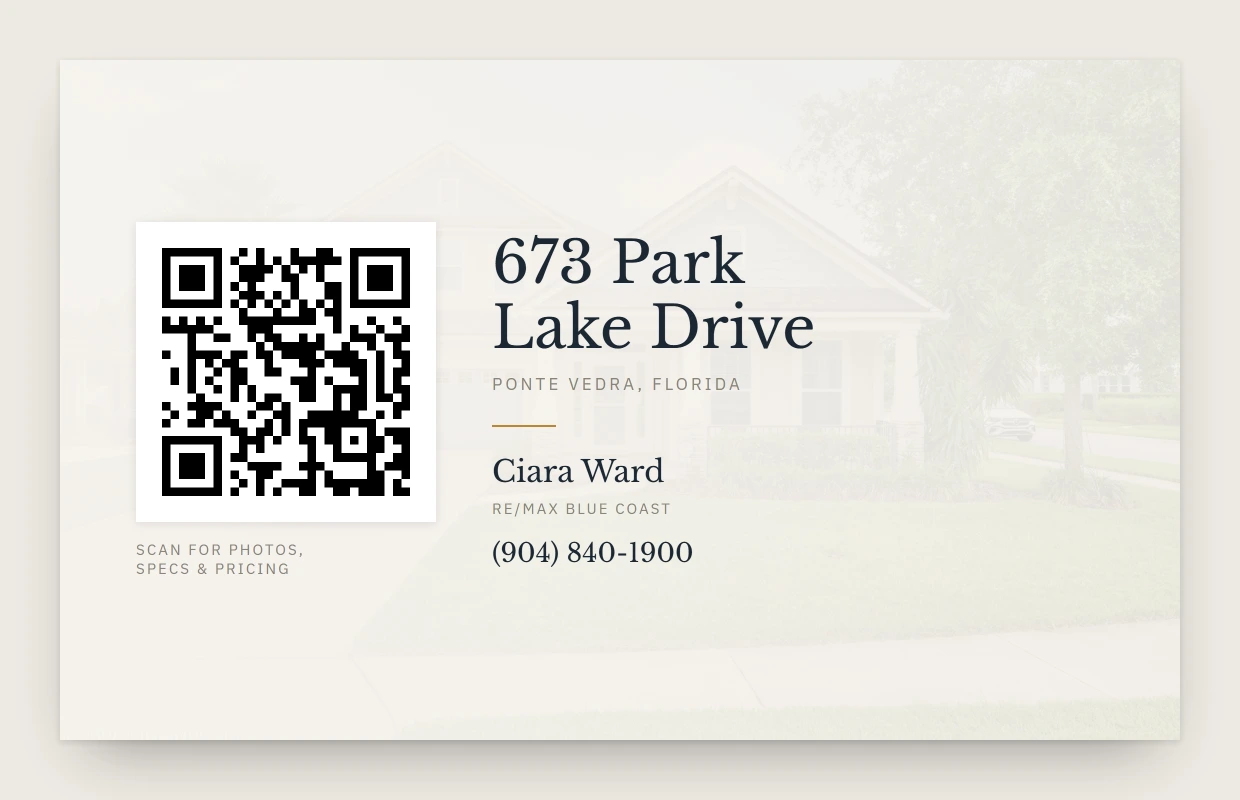
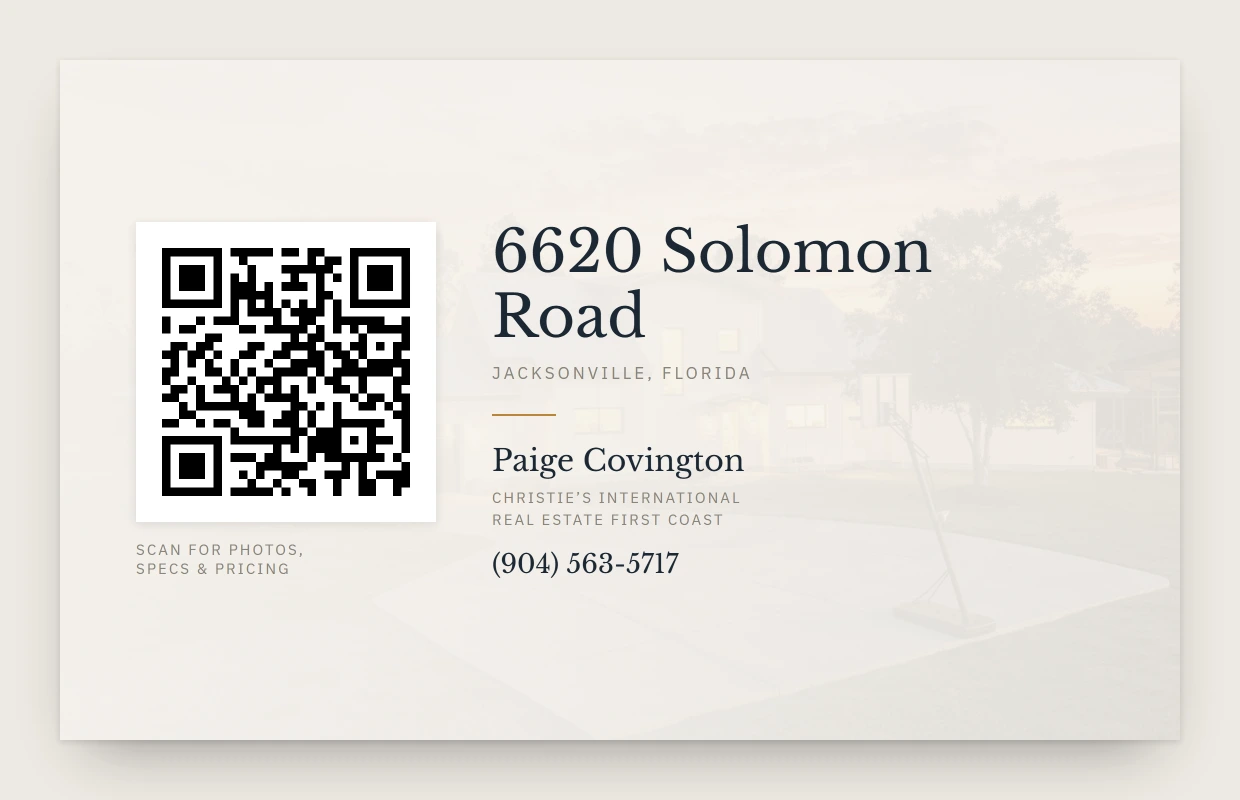
Add 6620 Solomon Road, and print the card that exists
Fifth listing, same treatment: the cover at dusk and the house over its
own pond, with Jacksonville Heights, $850,000 and six acres beside them.
It joins the hero cycle as a fifth screen. Five pills do not divide into
two columns, so on a phone the last one takes the whole row.

The card block now shows 6620 Solomon Road rather than a card I invented
for Park Lake - this is the sheet that was actually printed, for Paige
Covington, and the QR on it resolves to her guide.

Changed region(s): [[0.3984, 0.2812, 0.7661, 0.7188], [0.1226, 0.3125, 0.3371, 0.625]]

diff --git a/index.html b/index.html
@@ -113,6 +113,7 @@
             <div class="frame"><img data-src="images/guide-parklake-home.webp" width="620" height="1248" alt="Another listing on the same phone: 673 Park Lake Drive at $769,000, four beds and 2,919 square feet, with the listing agent’s photo in the corner." decoding="async"></div>
             <div class="frame"><img data-src="images/guide-gullcir-home.webp" width="620" height="1248" alt="Another listing on the same phone: 209 Gull Circle, a beach house at sunset, $1,299,000 and 3,495 square feet." decoding="async"></div>
             <div class="frame"><img data-src="images/guide-vistalake-home.webp" width="620" height="1248" alt="Another listing on the same phone: 118 Vista Lake Circle at $599,999, four beds and 2,187 square feet." decoding="async"></div>
+            <div class="frame"><img data-src="images/guide-solomon-home.webp" width="620" height="1248" alt="Another listing on the same phone: 6620 Solomon Road in Jacksonville, $850,000, three beds and 2,441 square feet on six acres." decoding="async"></div>
           </div>
           </div>
         </div>
@@ -134,6 +135,7 @@
         <button class="tab" type="button" role="tab" aria-selected="false">673 Park Lake</button>
         <button class="tab" type="button" role="tab" aria-selected="false">209 Gull Circle</button>
         <button class="tab" type="button" role="tab" aria-selected="false">118 Vista Lake</button>
+        <button class="tab" type="button" role="tab" aria-selected="false">6620 Solomon</button>
       </div>
       <div class="work-grid">
         <a class="work-visual" id="work-visual" href="https://268-harpers-mill.vercel.app/" target="_blank" rel="noopener" aria-label="Open the 268 Harper’s Mill Drive guide">
@@ -172,7 +174,7 @@
         </div>
       </div>
       <div class="card-row" data-reveal>
-        <img class="card-shot" src="images/qr-card.webp" width="1240" height="800" alt="A printed card for 673 Park Lake Drive: a QR code beside the address, Ponte Vedra, Florida, the listing agent’s name, brokerage and phone number, over a faded photo of the house." loading="lazy" decoding="async">
+        <img class="card-shot" src="images/qr-card.webp" width="1240" height="800" alt="A printed card for 6620 Solomon Road: a QR code beside the address, Jacksonville, Florida, the listing agent’s name, brokerage and phone number, over a faded photo of the house." loading="lazy" decoding="async">
         <div class="card-copy">
           <span class="eyebrow">And the cards</span>
           <h3>The card that opens it</h3>

diff --git a/script.js b/script.js
@@ -22,7 +22,8 @@ document.addEventListener('DOMContentLoaded',function(){
     {slug:'268-harpers-mill-drive'},
     {slug:'673-park-lake-drive'},
     {slug:'209-gull-circle'},
-    {slug:'118-vista-lake-circle'}
+    {slug:'118-vista-lake-circle'},
+    {slug:'6620-solomon-road'}
   ];
   var HERO_HOLD=5200;   // per guide, typing included
   var TYPE_MS=46;       // per character
@@ -144,6 +145,14 @@ document.addEventListener('DOMContentLoaded',function(){
      frames:[
        {src:'guide-vistalake-home.webp',alt:'The guide’s opening screen: 118 Vista Lake Circle over a photo of the house, the price and the beds, baths and square feet under it.'},
        {src:'guide-vistalake-kitchen.webp',alt:'Further down the same guide: the kitchen island under pendant lights, captioned, above the dining room.'}
+     ]},
+    {title:'6620 Solomon Road',
+     meta:'Jacksonville Heights · $850,000',
+     facts:'3 beds · 3 baths · 2,441 sq ft · 6 acres',
+     url:'https://6620-solomon-road.vercel.app/',
+     frames:[
+       {src:'guide-solomon-home.webp',alt:'The guide’s opening screen: 6620 Solomon Road photographed at dusk, the listing agent’s photo in the corner, and $850,000 with the beds, baths and square feet below it.'},
+       {src:'guide-solomon-dusk.webp',alt:'Further down the same guide: the house at dusk over its private pond, captioned, with the figures starting underneath.'}
      ]}
   ];
   var tabs=Array.prototype.slice.call(document.querySelectorAll('.tab'));

diff --git a/styles.css b/styles.css
@@ -268,6 +268,7 @@ img{max-width:100%;display:block}
      instead, so the row breaks where it is supposed to. */
   .tabs{display:grid;grid-template-columns:repeat(2,minmax(0,1fr));gap:8px;max-width:440px}
   .tab{width:100%;font-size:14px;padding:8px 10px;justify-content:center}
+  .tab:last-child:nth-child(odd){grid-column:1 / -1}
   .wordmark i,.wordmark span{display:none}
   .site-nav a:not(.strong){display:none}
   .wordmark b,.site-nav a{white-space:nowrap}
